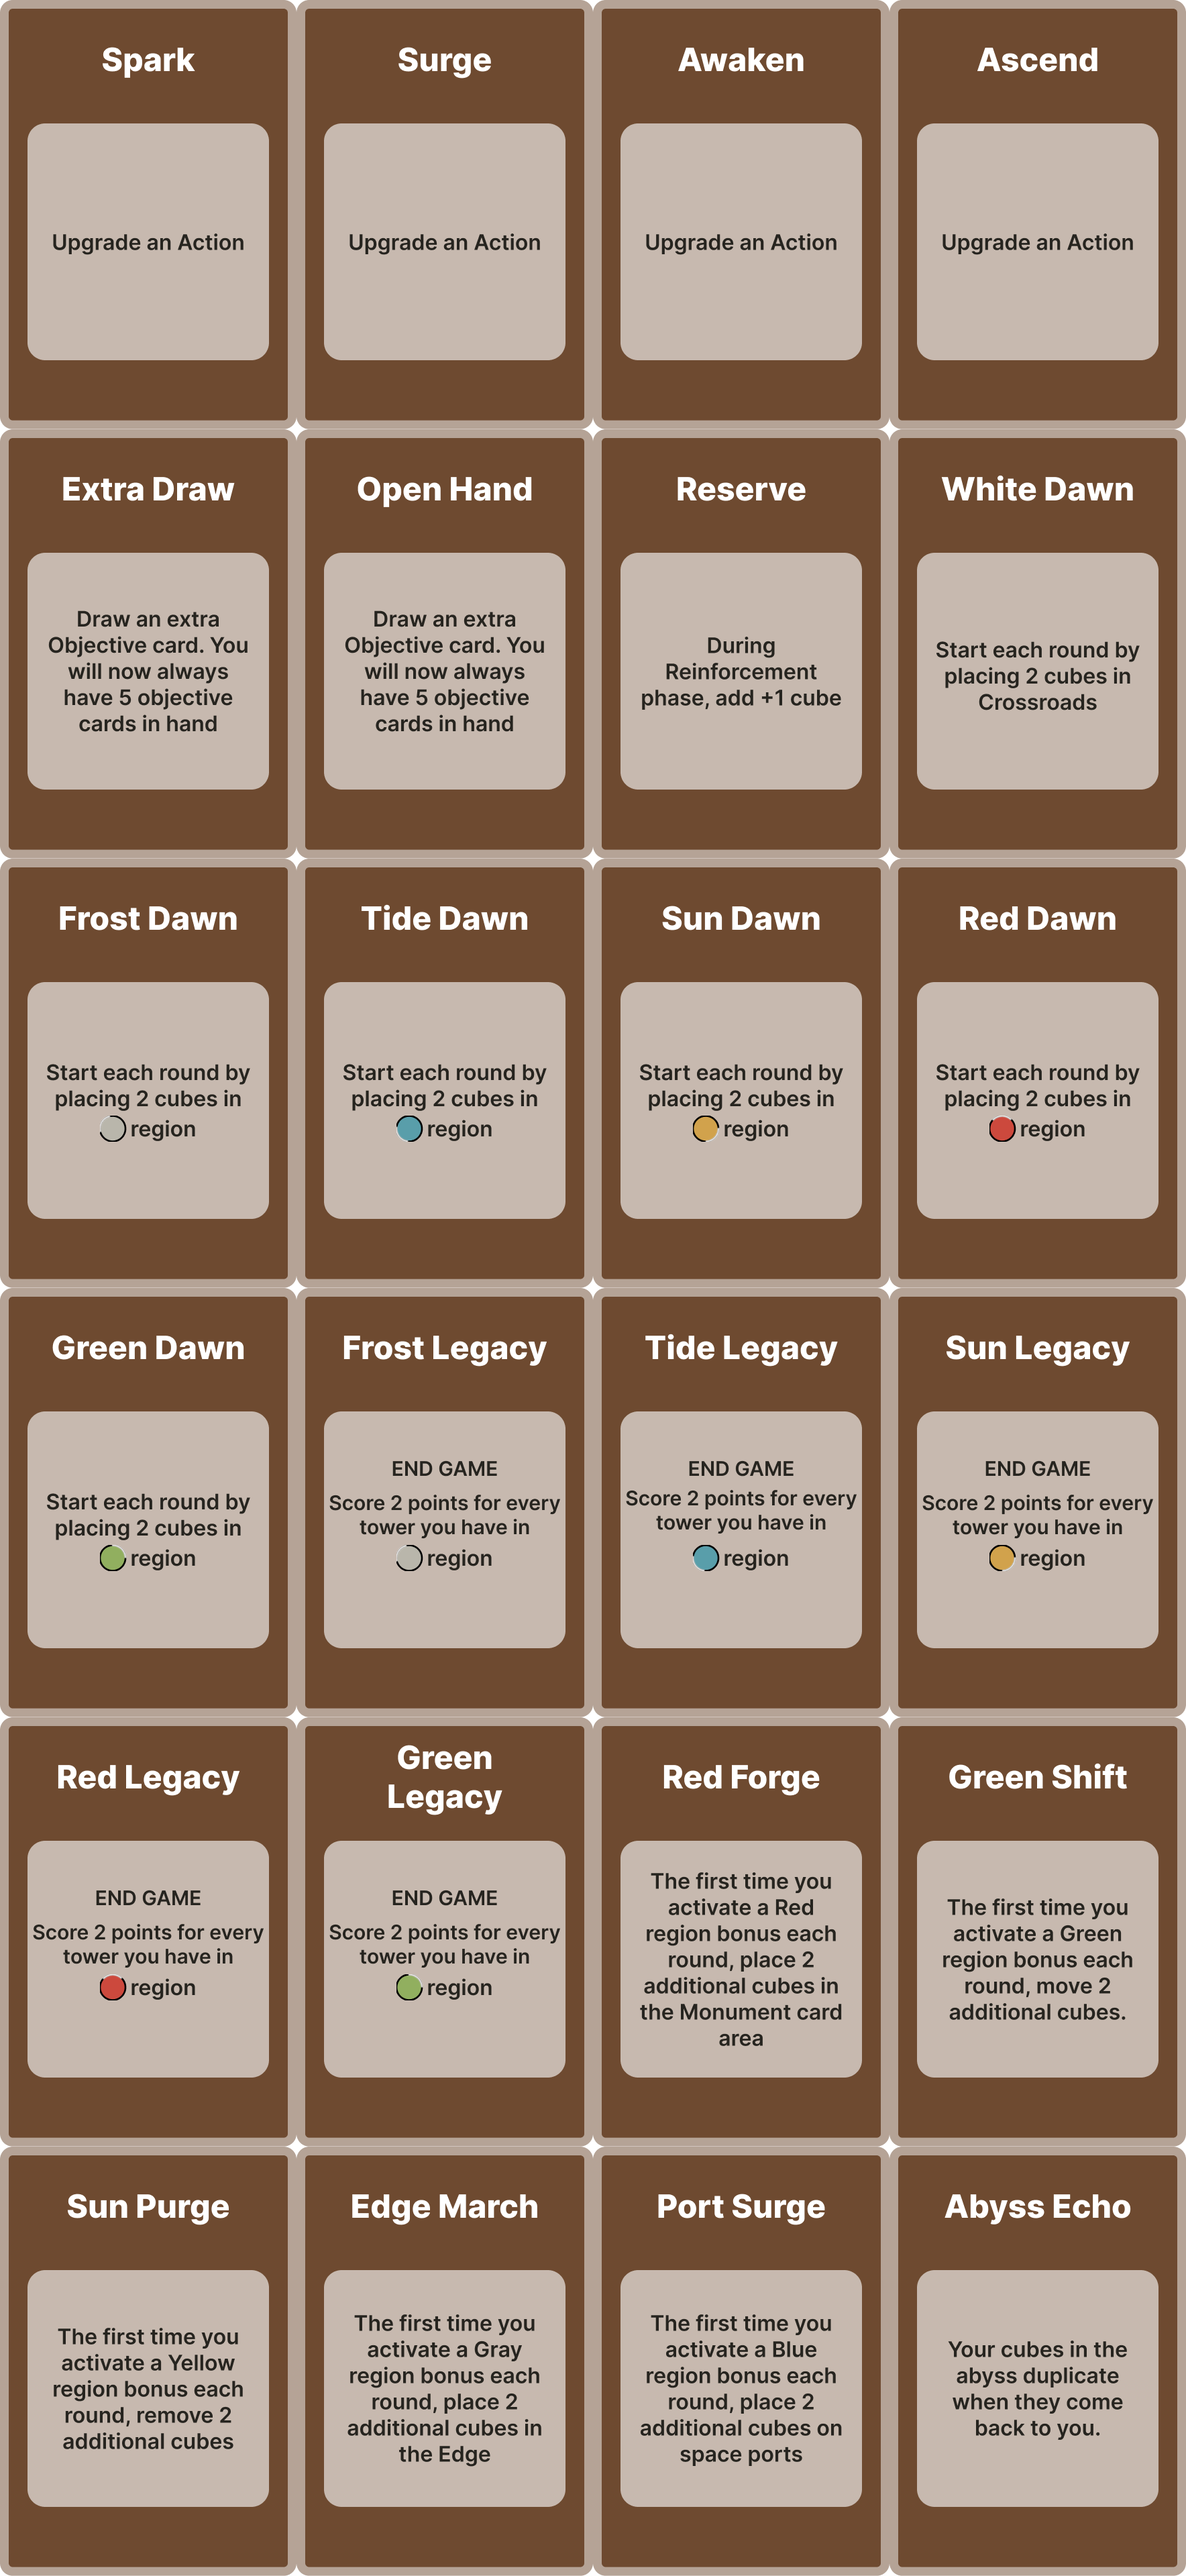
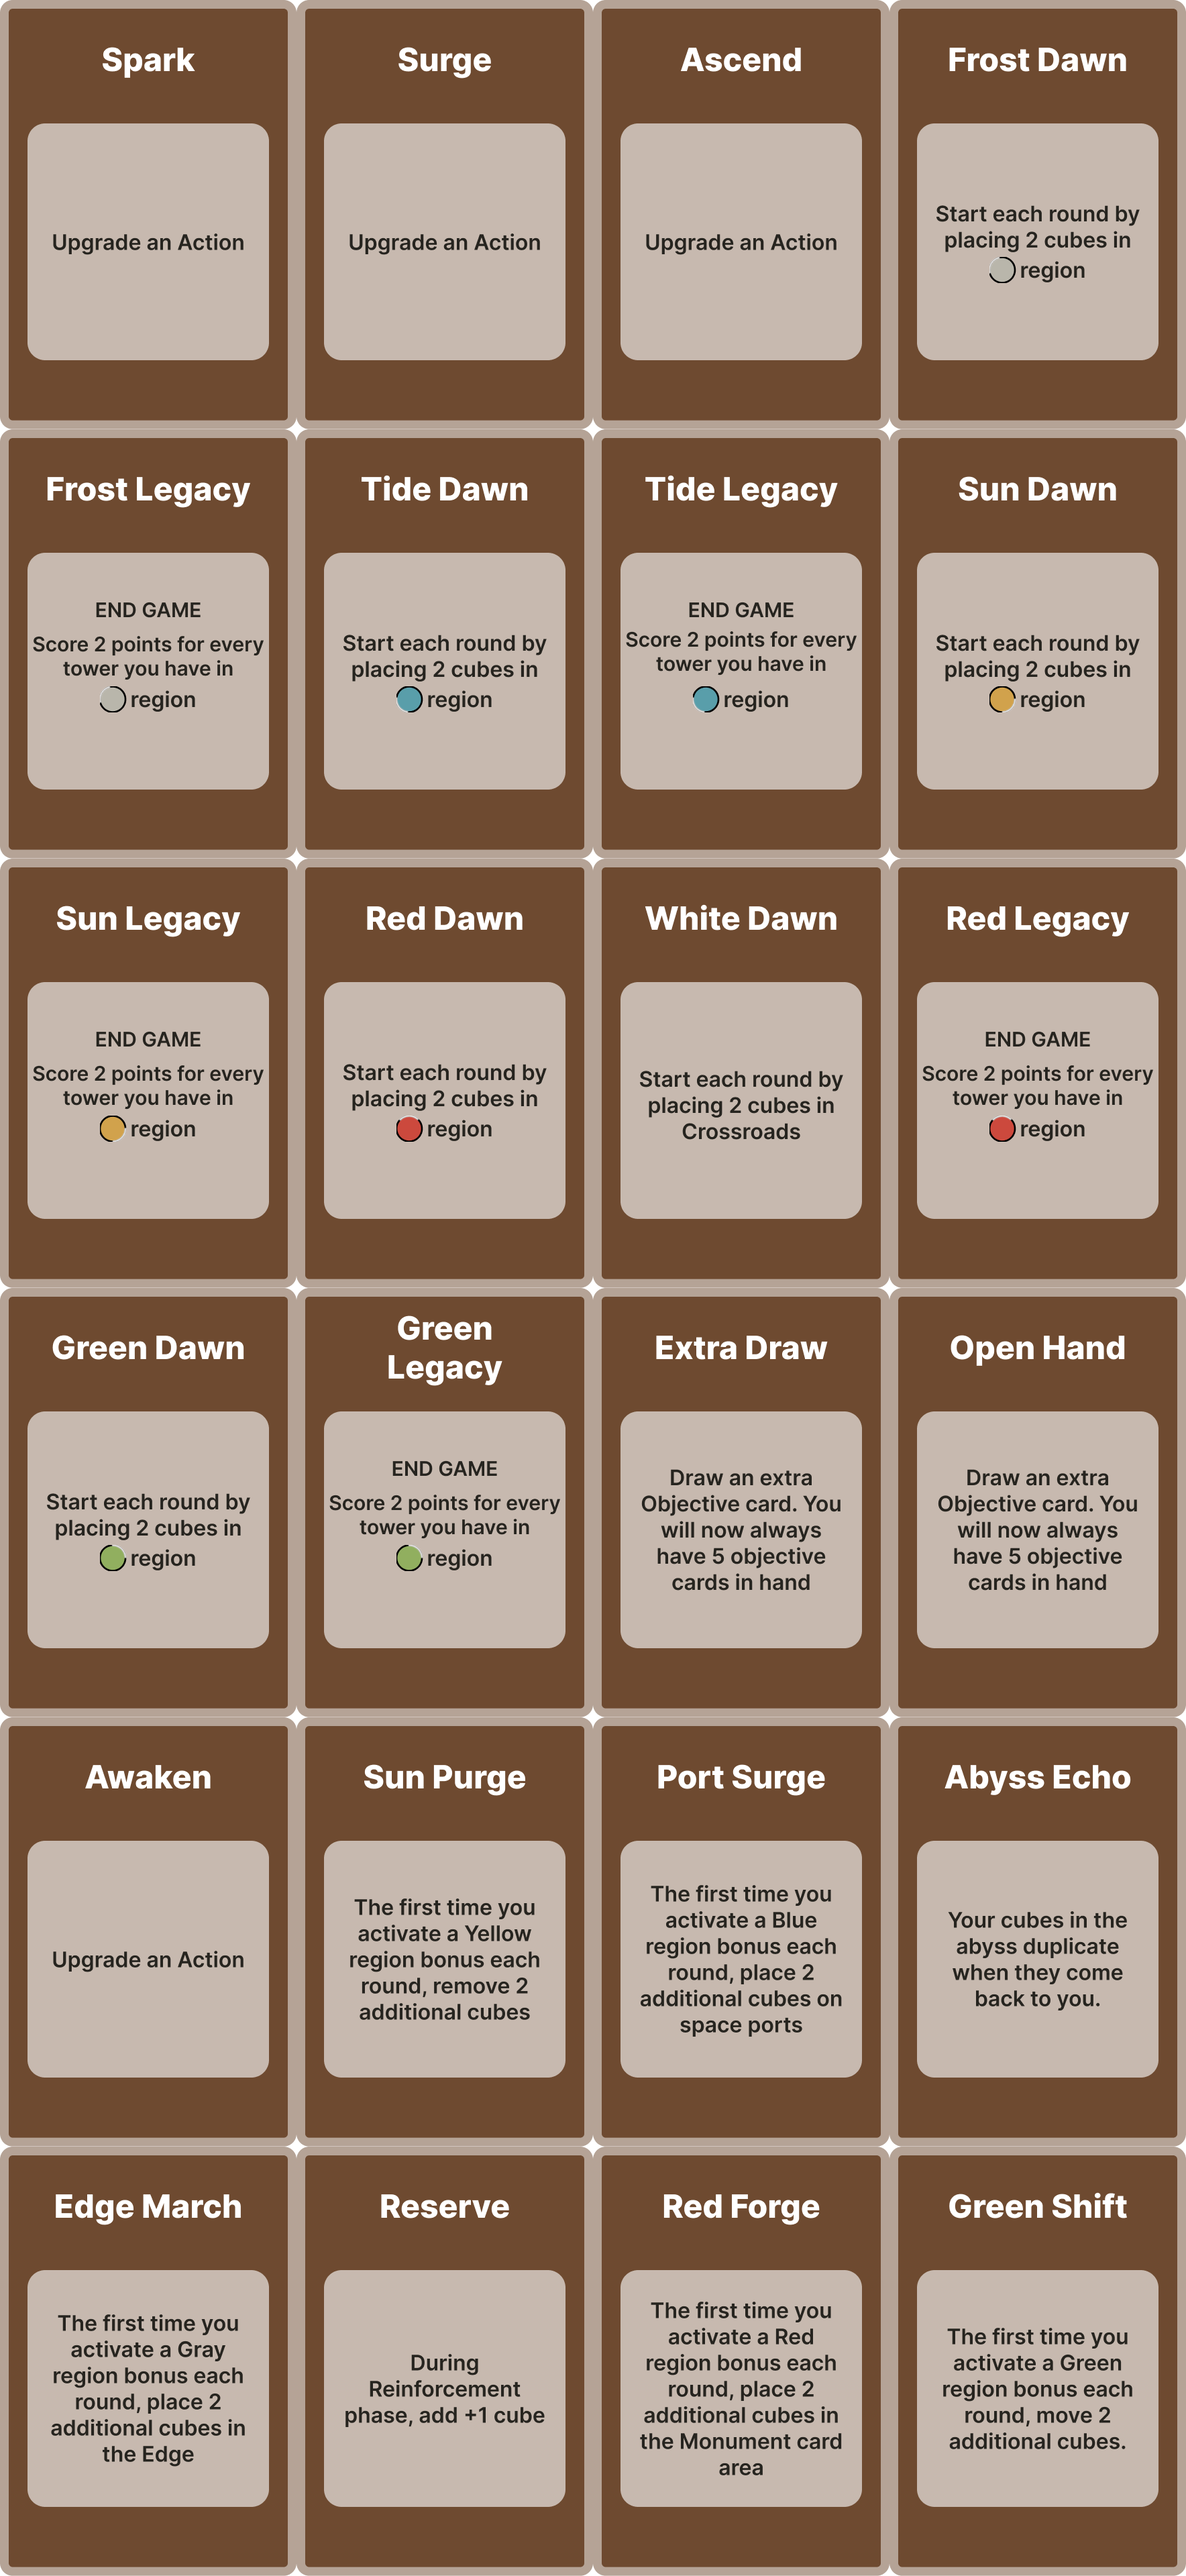
Refresh Page 5 board and card assets

diff --git a/docs/catalog.js b/docs/catalog.js
@@ -1,1 +1,1 @@
-window.FRONTIER_CATALOG = {"source": "Figma Page 5 Game components slice 400:5081", "boards": [{"title": "Main board", "figmaId": "400:5197", "path": "assets/boards/board-main-e46ceed54f.png", "width": 4096, "height": 2960, "revision": "d2559f2df6"}], "cards": [{"title": "Action Guide", "figmaId": "400:3386", "path": "assets/cards/card-action-guide-6323e6fee4.png", "width": 506, "height": 729, "revision": "32b6b7b4d4"}, {"title": "Region Bonus Guide", "figmaId": "400:3436", "path": "assets/cards/card-region-bonus-guide-800eb32bd9.png", "width": 759, "height": 1098, "revision": "9f711bb71c"}], "references": [], "decks": [{"title": "Monuments", "figmaId": "400:4331", "count": 30, "columns": 6, "rows": 5, "cardWidth": 442, "cardHeight": 640, "face": {"path": "assets/decks/monuments-faces-d44fdccb0e.png", "width": 2652, "height": 3200, "revision": "52d93c3942"}, "back": {"path": "assets/decks/monuments-back-a65fba90e2.png", "width": 442, "height": 640, "revision": "dab77c147b"}}, {"title": "Objectives", "figmaId": "400:3464", "count": 18, "columns": 6, "rows": 3, "cardWidth": 388, "cardHeight": 519, "face": {"path": "assets/decks/objectives-faces-4d91a50427.png", "width": 2328, "height": 1557, "revision": "a37ecd085f"}, "back": {"path": "assets/decks/objectives-back-c08c78cc67.png", "width": 388, "height": 519, "revision": "cc7db17312"}}, {"title": "Specials", "figmaId": "400:4909", "count": 24, "columns": 4, "rows": 6, "cardWidth": 442, "cardHeight": 640, "face": {"path": "assets/decks/specials-faces-adc1172863.png", "width": 1768, "height": 3840, "revision": "fd4011cdc6"}, "back": {"path": "assets/decks/specials-back-0b946676e3.png", "width": 442, "height": 640, "revision": "716e286590"}}], "tokens": [{"title": "Build 4", "figmaId": "400:3302", "path": "assets/tokens/action-tile-1-fb100c9aa5.png", "width": 426, "height": 426, "revision": "989ae47648"}, {"title": "Region bonus", "figmaId": "400:3383", "path": "assets/tokens/action-tile-2-7107aa55c8.png", "width": 426, "height": 426, "revision": "649b646ee8"}, {"title": "Build 3", "figmaId": "400:3254", "path": "assets/tokens/action-tile-3.png", "width": 427, "height": 427, "revision": "a012cf7af2"}, {"title": "Build 4, four regions", "figmaId": "400:3351", "path": "assets/tokens/action-tile-4-21af0fce2d.png", "width": 427, "height": 427, "revision": "55e88bb6be"}, {"title": "+1", "figmaId": "400:3374", "path": "assets/tokens/action-tile-5-39a0ec00fc.png", "width": 426, "height": 426, "revision": "35563c5885"}, {"title": "+2", "figmaId": "400:3377", "path": "assets/tokens/action-tile-6-813e8438d5.png", "width": 426, "height": 426, "revision": "d2a8f29a2f"}, {"title": "Build 2, four regions", "figmaId": "400:3232", "path": "assets/tokens/action-tile-7-7d3d7a7703.png", "width": 427, "height": 427, "revision": "a1f7a74b1d"}, {"title": "+3", "figmaId": "400:3380", "path": "assets/tokens/action-tile-8.png", "width": 426, "height": 426, "revision": "e5071bf25c"}, {"title": "Move", "figmaId": "400:3276", "path": "assets/tokens/action-tile-9.png", "width": 427, "height": 427, "revision": "832b4116c5"}, {"title": "Build 6", "figmaId": "400:3324", "path": "assets/tokens/action-tile-10.png", "width": 426, "height": 426, "revision": "7241052671"}]};
+window.FRONTIER_CATALOG = {"source": "Figma Page 5 Game components slice 400:5081", "boards": [{"title": "Main board", "figmaId": "400:5197", "path": "assets/boards/board-main-e46ceed54f.png", "width": 4096, "height": 2960, "revision": "1447c66148"}], "cards": [{"title": "Action Guide", "figmaId": "400:3386", "path": "assets/cards/card-action-guide-6323e6fee4.png", "width": 506, "height": 729, "revision": "32b6b7b4d4"}, {"title": "Region Bonus Guide", "figmaId": "400:3436", "path": "assets/cards/card-region-bonus-guide-800eb32bd9.png", "width": 759, "height": 1098, "revision": "9f711bb71c"}], "references": [], "decks": [{"title": "Monuments", "figmaId": "400:4331", "count": 30, "columns": 6, "rows": 5, "cardWidth": 442, "cardHeight": 640, "face": {"path": "assets/decks/monuments-faces-d44fdccb0e.png", "width": 2652, "height": 3200, "revision": "52d93c3942"}, "back": {"path": "assets/decks/monuments-back-a65fba90e2.png", "width": 442, "height": 640, "revision": "abfd3f1891"}}, {"title": "Objectives", "figmaId": "400:3464", "count": 18, "columns": 6, "rows": 3, "cardWidth": 388, "cardHeight": 519, "face": {"path": "assets/decks/objectives-faces-4d91a50427.png", "width": 2328, "height": 1557, "revision": "a37ecd085f"}, "back": {"path": "assets/decks/objectives-back-c08c78cc67.png", "width": 388, "height": 519, "revision": "cc7db17312"}}, {"title": "Specials", "figmaId": "400:4909", "count": 24, "columns": 4, "rows": 6, "cardWidth": 442, "cardHeight": 640, "face": {"path": "assets/decks/specials-faces-adc1172863.png", "width": 1768, "height": 3840, "revision": "a229581d1b"}, "back": {"path": "assets/decks/specials-back-0b946676e3.png", "width": 442, "height": 640, "revision": "716e286590"}}], "tokens": [{"title": "Build 4", "figmaId": "400:3302", "path": "assets/tokens/action-tile-1-fb100c9aa5.png", "width": 426, "height": 426, "revision": "989ae47648"}, {"title": "Region bonus", "figmaId": "400:3383", "path": "assets/tokens/action-tile-2-7107aa55c8.png", "width": 426, "height": 426, "revision": "649b646ee8"}, {"title": "Build 3", "figmaId": "400:3254", "path": "assets/tokens/action-tile-3.png", "width": 427, "height": 427, "revision": "a012cf7af2"}, {"title": "Build 4, four regions", "figmaId": "400:3351", "path": "assets/tokens/action-tile-4-21af0fce2d.png", "width": 427, "height": 427, "revision": "55e88bb6be"}, {"title": "+1", "figmaId": "400:3374", "path": "assets/tokens/action-tile-5-39a0ec00fc.png", "width": 426, "height": 426, "revision": "35563c5885"}, {"title": "+2", "figmaId": "400:3377", "path": "assets/tokens/action-tile-6-813e8438d5.png", "width": 426, "height": 426, "revision": "d2a8f29a2f"}, {"title": "Build 2, four regions", "figmaId": "400:3232", "path": "assets/tokens/action-tile-7-7d3d7a7703.png", "width": 427, "height": 427, "revision": "a1f7a74b1d"}, {"title": "+3", "figmaId": "400:3380", "path": "assets/tokens/action-tile-8.png", "width": 426, "height": 426, "revision": "e5071bf25c"}, {"title": "Move", "figmaId": "400:3276", "path": "assets/tokens/action-tile-9.png", "width": 427, "height": 427, "revision": "832b4116c5"}, {"title": "Build 6", "figmaId": "400:3324", "path": "assets/tokens/action-tile-10.png", "width": 426, "height": 426, "revision": "7241052671"}]};

diff --git a/docs/index.html b/docs/index.html
@@ -6,7 +6,7 @@
   <meta name="theme-color" content="#12171c">
   <title>Frontier · Tabletop Simulator assets</title>
   <link rel="stylesheet" href="styles.css?v=3">
-  <script defer src="catalog.js?v=ccb24e060b"></script>
+  <script defer src="catalog.js?v=754c804ed8"></script>
   <script defer src="app.js?v=7"></script>
 </head>
 <body>
